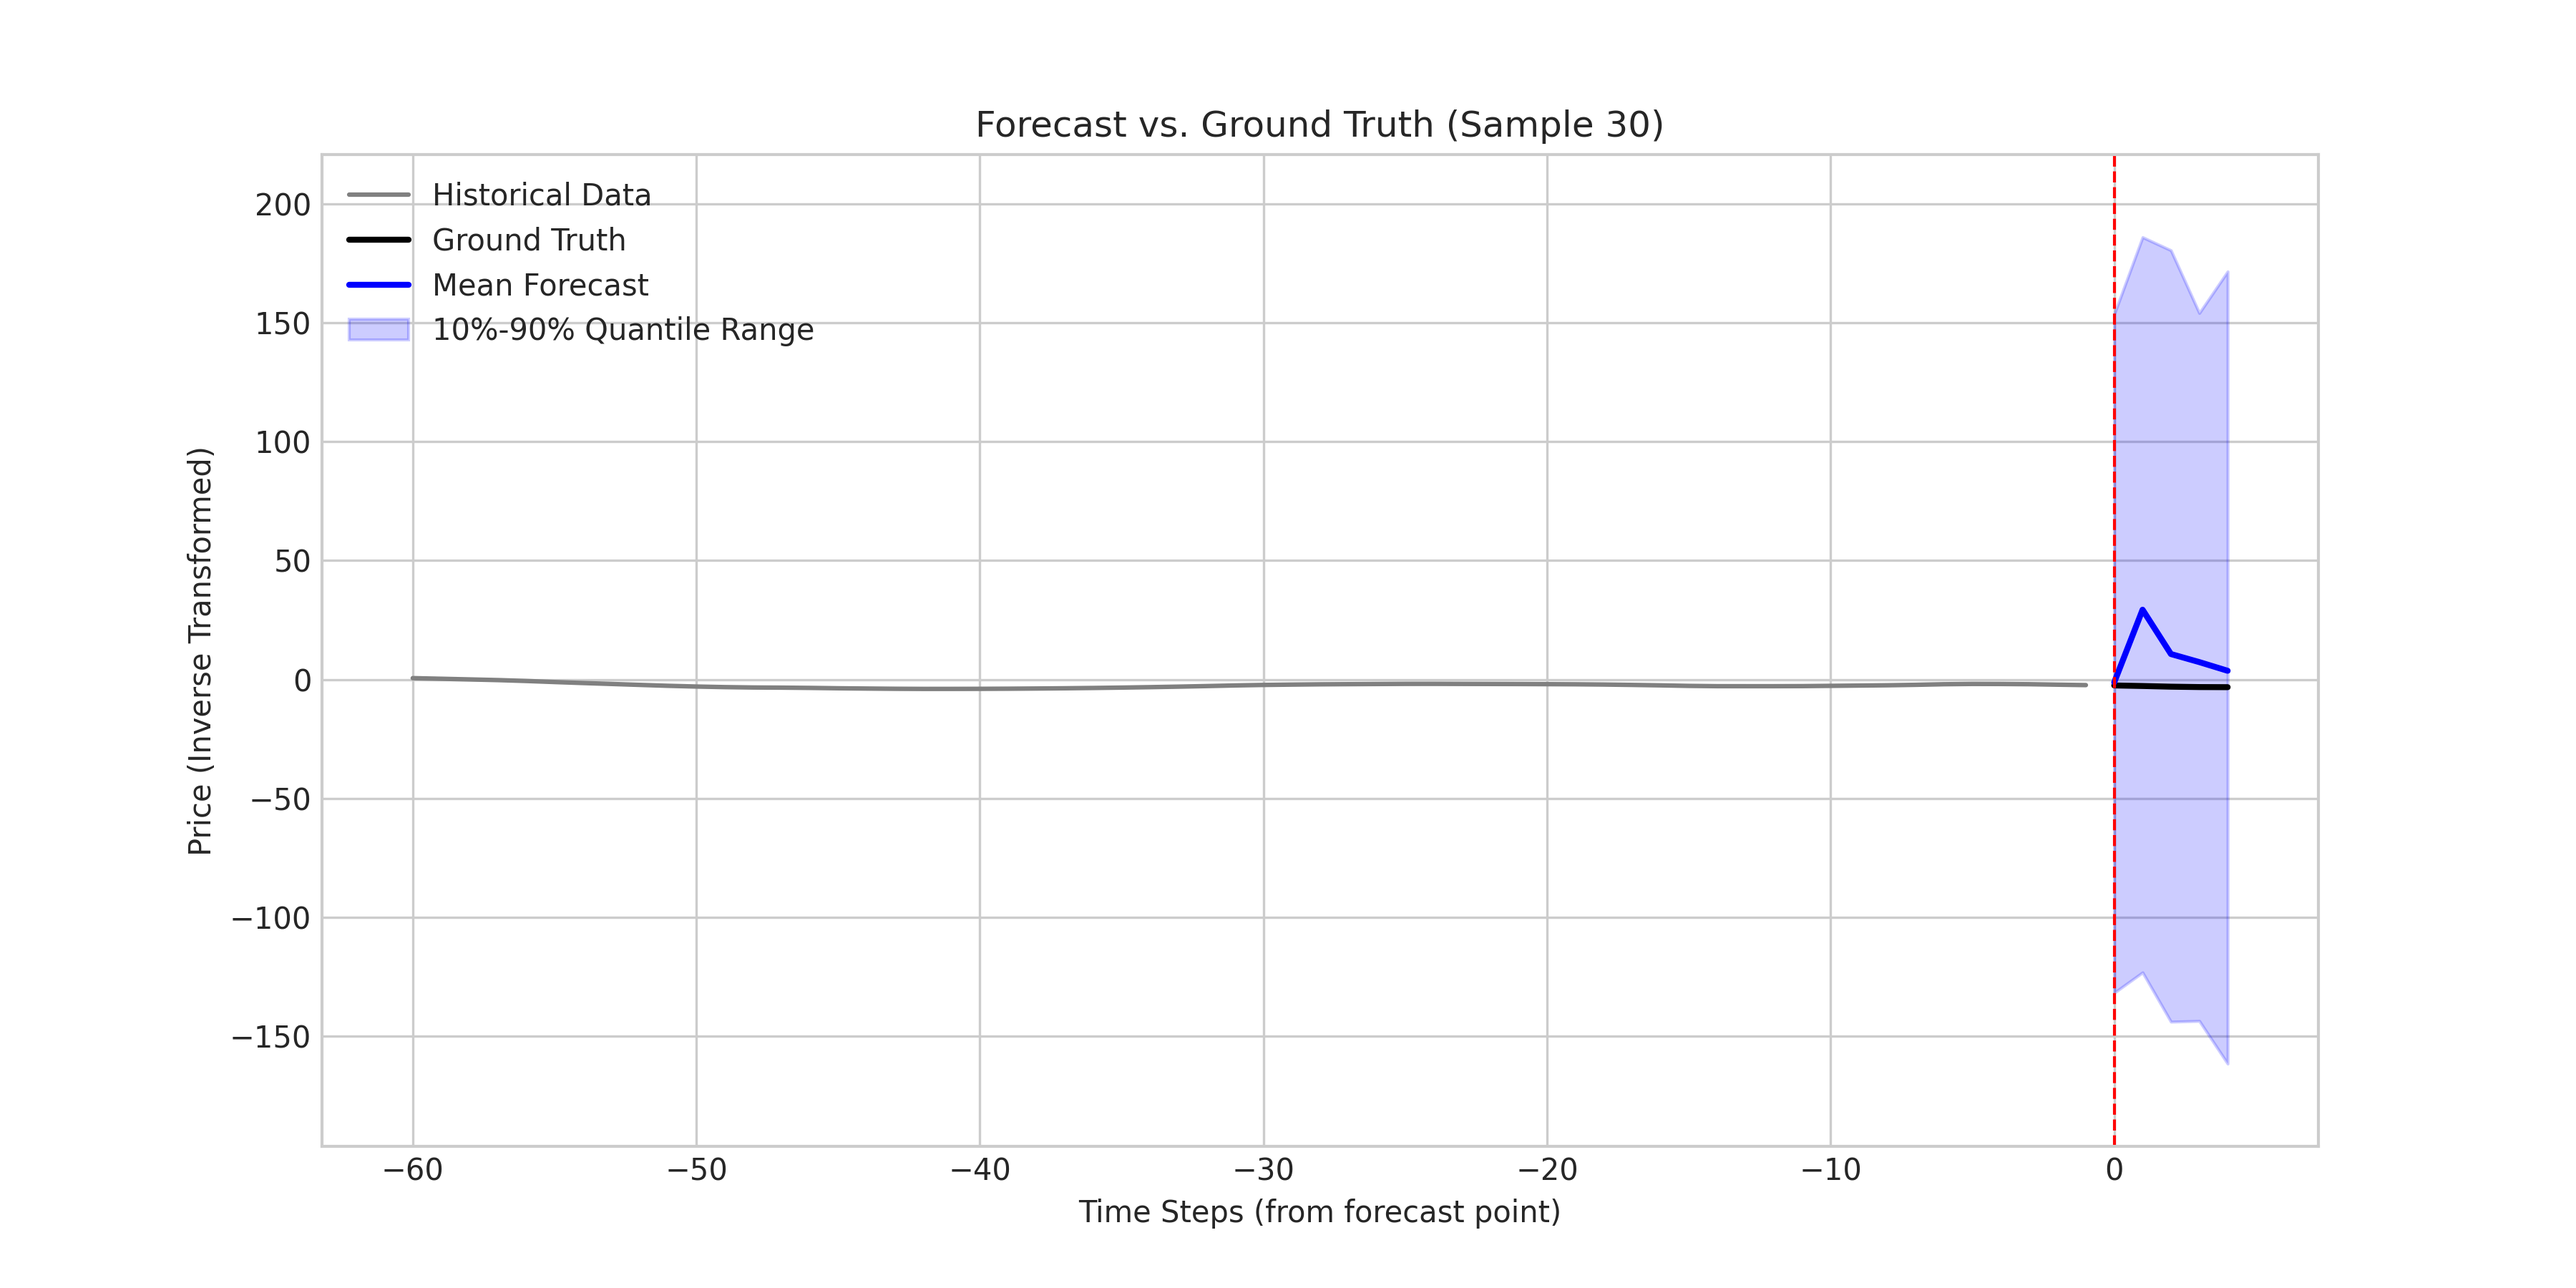
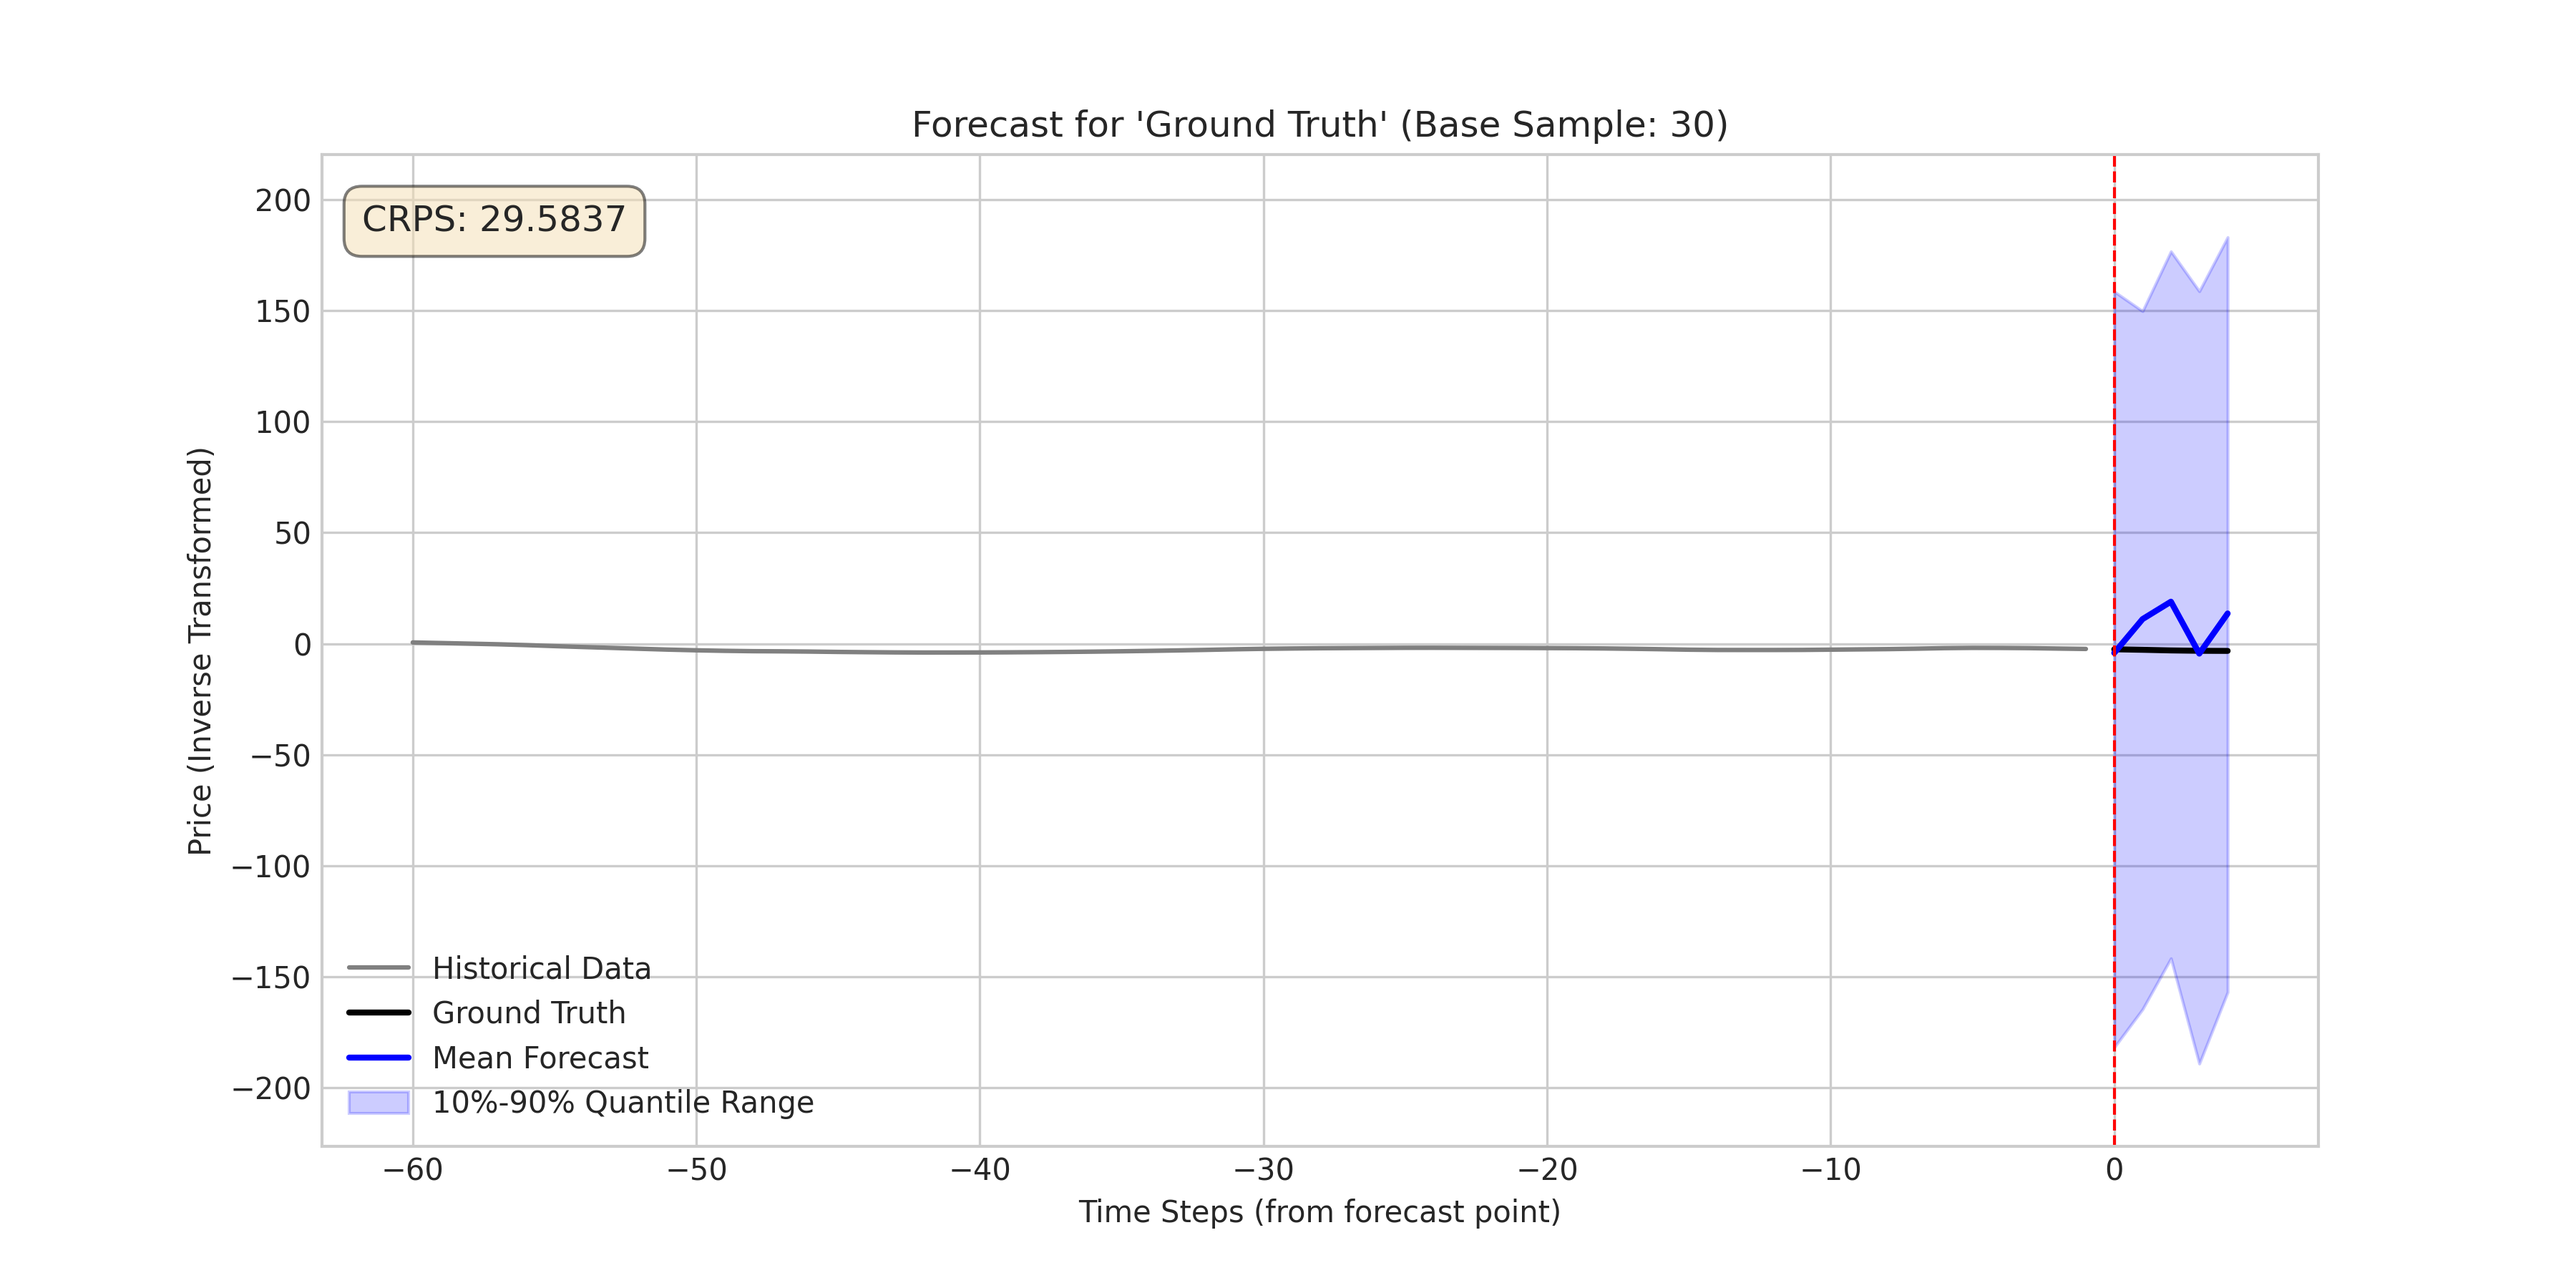
Added CRPS calculation

diff --git a/FinD_Generator/src/models/conditional_timegrad.py b/FinD_Generator/src/models/conditional_timegrad.py
@@ -10,7 +10,7 @@ Author: Wooseok Lee
 
 import torch
 import torch.nn as nn
-from typing import Optional
+from typing import Dict
 
 # Import from your PTS library
 import sys
@@ -32,6 +32,7 @@ class ConditionalTimeGrad(nn.Module):
         self,
         target_dim: int = 1,
         cond_dynamic_dim: int = 50,
+        forecast_horizon: int = 5,
         cond_static_dim: int = 10,
         diff_steps: int = 100,
         beta_end: float = 0.1,
@@ -46,6 +47,7 @@ class ConditionalTimeGrad(nn.Module):
         Args:
             target_dim: Dimension of target variable (1 for univariate)
             cond_dynamic_dim: Number of dynamic conditioning features
+            forecast_horizon: The length of the forecast sequence.
             cond_static_dim: Number of static conditioning features
             diff_steps: Number of diffusion steps
             beta_end: Final beta value for diffusion schedule
@@ -60,6 +62,7 @@ class ConditionalTimeGrad(nn.Module):
         
         self.target_dim = target_dim
         self.cond_dynamic_dim = cond_dynamic_dim
+        self.forecast_horizon = forecast_horizon
         self.cond_static_dim = cond_static_dim
         
         # Conditioning length for epsilon_theta
@@ -207,43 +210,46 @@ class ConditionalTimeGrad(nn.Module):
         samples = samples.view(batch_size, num_samples, self.target_dim, horizon)
         samples = samples.transpose(2, 3)
         return samples
-    
-    def predict(self, cond_dynamic, cond_static, num_samples=100, return_quantiles=True):
+
+    def predict(
+        self,
+        cond_dynamic: torch.Tensor,
+        cond_static: torch.Tensor,
+        num_samples: int, # Renamed from num_samples to align with sample method
+        return_raw_samples: bool = False
+    ) -> Dict[str, torch.Tensor]:
         """
-        High-level prediction interface.
-        
-        Args:
-            cond_dynamic: Dynamic features (batch, seq_len, n_features)
-            cond_static: Static features (batch, n_features)
-            num_samples: Number of Monte Carlo samples
-            return_quantiles: If True, return quantiles; else return all samples
-        
-        Returns:
-            If return_quantiles=True:
-                Dictionary with keys: 'mean', 'median', 'q10', 'q90', 'std'
-            Else:
-                samples: (batch, num_samples, horizon, 1)
+        Generate probabilistic forecasts using the trained model.
+        This method leverages the `sample` method to generate raw forecast paths
+        and then computes summary statistics (mean, quantiles).
         """
-        horizon = 5 # Default horizon, consider making this an argument
-        samples = self.sample(cond_dynamic, cond_static, num_samples, horizon=horizon)
+        # Use the model's own sample method to generate forecast paths
+        # It returns shape: (batch, num_samples, horizon, target_dim)
+        forecast_samples = self.sample(
+            cond_dynamic=cond_dynamic,
+            cond_static=cond_static,
+            num_samples=num_samples,
+            horizon=self.forecast_horizon # Use horizon stored in the model
+        )
         
-        if not return_quantiles:
-            return samples
-        
-        # Compute statistics over samples
-        samples_squeezed = samples.squeeze(-1)  # (batch, num_samples, horizon)
-        
-        predictions = {
-            'mean': samples_squeezed.mean(dim=1),      # (batch, horizon)
-            'median': samples_squeezed.median(dim=1)[0],  # (batch, horizon)
-            'std': samples_squeezed.std(dim=1),        # (batch, horizon)
-            'q10': samples_squeezed.quantile(0.1, dim=1),  # (batch, horizon)
-            'q25': samples_squeezed.quantile(0.25, dim=1),
-            'q75': samples_squeezed.quantile(0.75, dim=1),
-            'q90': samples_squeezed.quantile(0.9, dim=1),
+        # Calculate statistics
+        # The samples are (batch, num_samples, horizon, target_dim), so we aggregate over the num_samples dimension (dim=1)
+        mean_forecast = torch.mean(forecast_samples, dim=1)
+        q10 = torch.quantile(forecast_samples, q=0.1, dim=1)
+        q90 = torch.quantile(forecast_samples, q=0.9, dim=1)
+
+        output = {
+            "mean": mean_forecast,
+            "q10": q10,
+            "q90": q90,
         }
-        
-        return predictions
+        if return_raw_samples:
+            # For CRPS, we need (batch, horizon, num_samples). Current shape is (batch, num_samples, horizon, 1)
+            # So we squeeze and permute.
+            output["raw_samples"] = forecast_samples.squeeze(-1).permute(0, 2, 1)
+
+        return output
+
 
 
 # ===========================================
@@ -251,6 +257,7 @@ class ConditionalTimeGrad(nn.Module):
 # ===========================================
 def create_conditional_timegrad(
     cond_dynamic_dim: int,
+    forecast_horizon: int,
     cond_static_dim: int,
     **kwargs
 ) -> ConditionalTimeGrad:
@@ -259,6 +266,7 @@ def create_conditional_timegrad(
     
     Args:
         cond_dynamic_dim: Number of dynamic conditioning features
+        forecast_horizon: The length of the forecast sequence.
         cond_static_dim: Number of static conditioning features
         **kwargs: Additional arguments to pass to ConditionalTimeGrad
     
@@ -280,6 +288,7 @@ def create_conditional_timegrad(
     
     model = ConditionalTimeGrad(
         cond_dynamic_dim=cond_dynamic_dim,
+        forecast_horizon=forecast_horizon,
         cond_static_dim=cond_static_dim,
         **config
     )

diff --git a/FinD_Generator/inference.py b/FinD_Generator/inference.py
@@ -4,7 +4,7 @@ inference.py
 Load a trained ConditionalTimeGrad model and generate forecasts.
 
 Usage:
-    python /workspaces/My_Little_Quant_Firm/FinD_Generator/inference.py --checkpoint checkpoints/best_model.pt --sample_idx 10
+    python /workspaces/My_Little_Quant_Firm/FinD_Generator/inference.py --checkpoint checkpoints/best_model.pt --sample_idx 30
 """
 
 import sys
@@ -15,6 +15,7 @@ import torch
 import numpy as np
 import matplotlib.pyplot as plt
 import json
+import properscoring as ps
 import os
 
 from src.data_loader import TimeGradDataModule
@@ -40,30 +41,33 @@ def parse_args():
     return parser.parse_args()
 
 
-def inverse_transform_single_feature(scaler, array_1d, feature_idx=0):
+def inverse_transform_single_feature(scaler, data_array, feature_idx=0):
     """
-    Inverse transforms a single-feature array using a multi-feature scaler.
+    Inverse transforms a single-feature array (1D or 2D) using a multi-feature scaler.
 
     Args:
         scaler: The scikit-learn scaler object (already fitted).
-        array_1d (np.ndarray): The 1D or (n, 1) array for the single feature.
+        data_array (np.ndarray): The array for the single feature. Can be 1D or 2D.
         feature_idx (int): The column index of this feature in the original data.
 
     Returns:
         np.ndarray: The inverse-transformed single-feature array.
     """
+    original_shape = data_array.shape
+    data_flat = data_array.flatten()
+
     # Create a dummy array with the shape the scaler expects
     num_features = scaler.n_features_in_
-    dummy_array = np.zeros((len(array_1d), num_features))
+    dummy_array = np.zeros((len(data_flat), num_features))
 
     # Place the single-feature data into the correct column
-    dummy_array[:, feature_idx] = array_1d.flatten()
+    dummy_array[:, feature_idx] = data_flat
 
     # Inverse transform the full array
     transformed_full = scaler.inverse_transform(dummy_array)
 
     # Extract and return only the feature we care about
-    return transformed_full[:, feature_idx].reshape(-1, 1)
+    return transformed_full[:, feature_idx].reshape(original_shape)
 
 
 def main():
@@ -108,6 +112,7 @@ def main():
 
     model = create_conditional_timegrad(
         cond_dynamic_dim=cond_dynamic_dim,
+        forecast_horizon=dm.forecast_horizon,
         cond_static_dim=cond_static_dim,
     ).to(device)
 
@@ -178,12 +183,13 @@ def main():
         predictions = model.predict(
             cond_dynamic=inference_batch['cond_dynamic'],
             cond_static=inference_batch['cond_static'],
-            num_samples=args.num_samples
+            num_samples=args.num_samples,
+            return_raw_samples=True  # Request the raw samples for CRPS
         )
 
     # Move predictions to CPU and convert to numpy
-    for key, tensor in predictions.items():
-        predictions[key] = tensor.squeeze(0).cpu().numpy()
+    for key in ['mean', 'q10', 'q90', 'raw_samples']:
+        predictions[key] = predictions[key].squeeze(0).cpu().numpy()
 
     # Get ground truth and historical data
     x_future_true_scaled = inference_batch['x_future'].squeeze(0).cpu().numpy()
@@ -198,8 +204,9 @@ def main():
     plot_feature_idx = 0
 
     # Inverse transform predictions
-    for key, arr in predictions.items():
-        predictions[key] = inverse_transform_single_feature(scaler, arr, plot_feature_idx)
+    for key in ['mean', 'q10', 'q90']:
+        predictions[key] = inverse_transform_single_feature(scaler, predictions[key], plot_feature_idx)
+    predictions['raw_samples'] = inverse_transform_single_feature(scaler, predictions['raw_samples'], plot_feature_idx)
 
     # Inverse transform ground truth and history
     x_future_true = inverse_transform_single_feature(scaler, x_future_true_scaled, plot_feature_idx)
@@ -222,6 +229,16 @@ def main():
 
     # Plot mean forecast
     ax.plot(future_range, predictions['mean'].flatten(), color='blue', lw=2, label='Mean Forecast')
+
+    # 8. Calculate and Display CRPS
+    # CRPS is calculated only if we are not in a hypothetical scenario
+    if not args.scenario:
+        # crps_ensemble expects observations and forecasts with shape (time, samples)
+        # Our raw_samples are (horizon, num_samples), e.g., (5, 200).
+        # Our x_future_true is (horizon, 1), e.g., (5, 1).
+        # We must squeeze x_future_true to (horizon,) for compatibility.
+        crps_score = ps.crps_ensemble(x_future_true.squeeze(), predictions['raw_samples']).mean()
+        ax.text(0.02, 0.95, f'CRPS: {crps_score:.4f}', transform=ax.transAxes, fontsize=12, verticalalignment='top', bbox=dict(boxstyle='round,pad=0.5', fc='wheat', alpha=0.5))
 
     # Plot uncertainty interval (quantiles)
     ax.fill_between(future_range, predictions['q10'].flatten(), predictions['q90'].flatten(),
